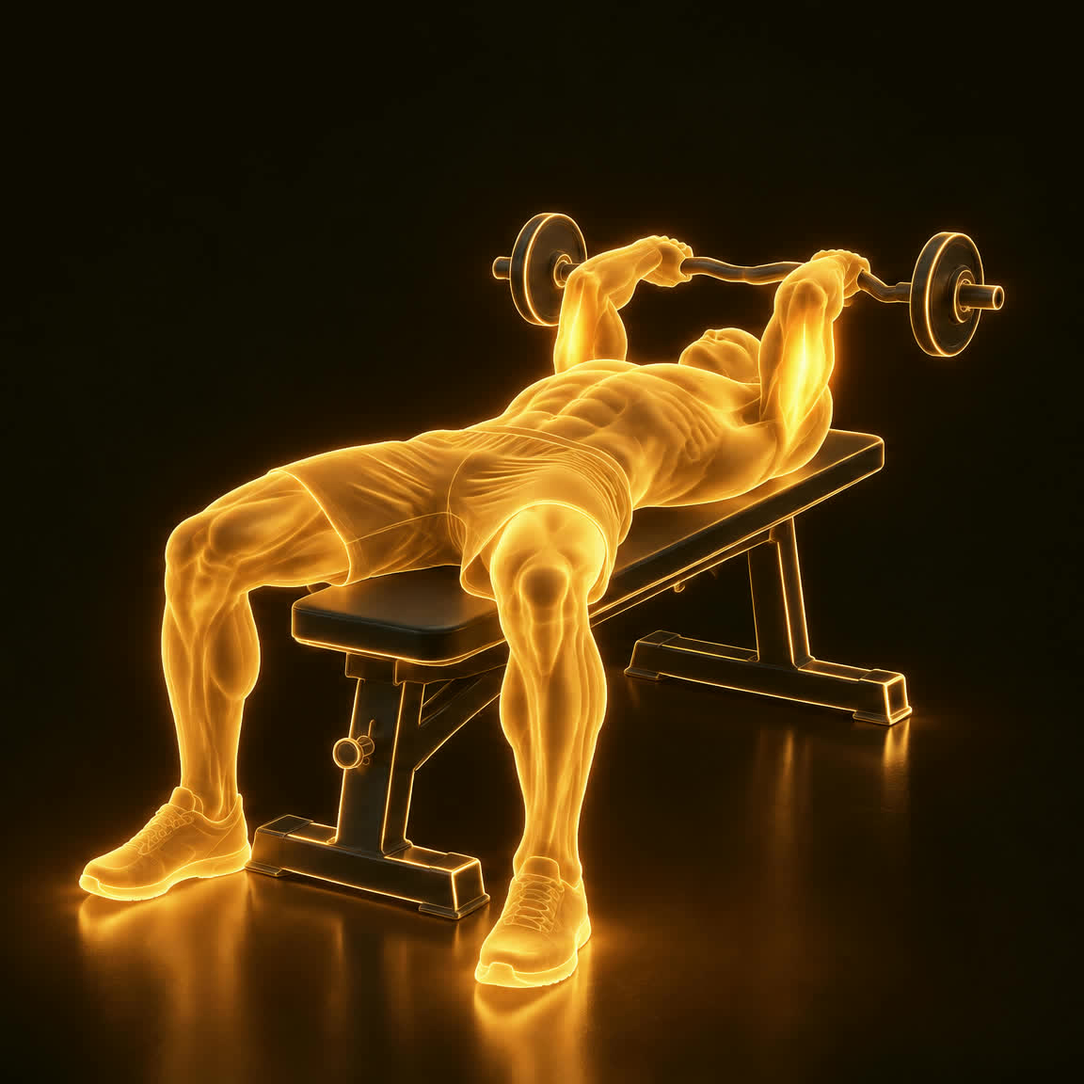
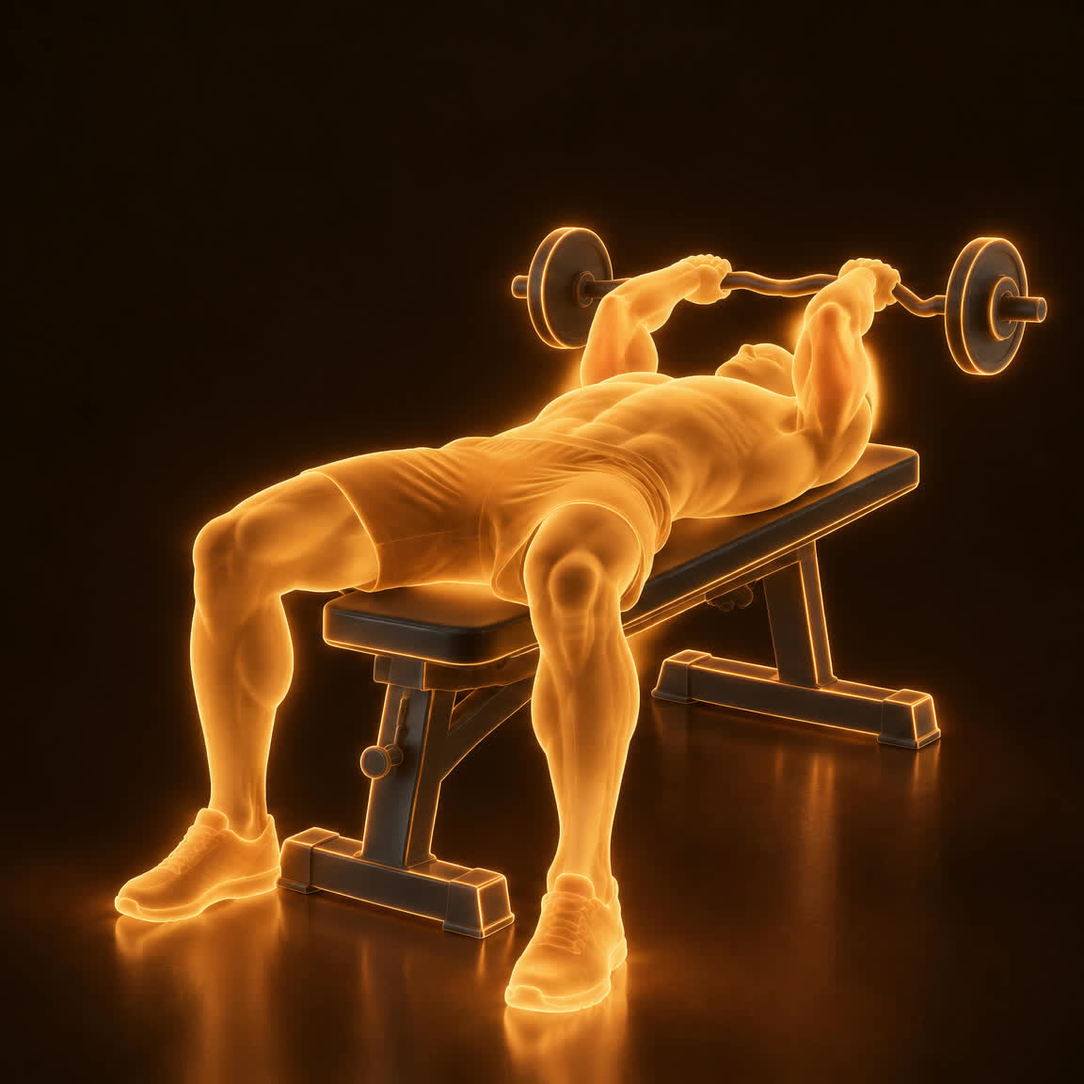
Unification round 1 v2: the soft body Asaf approved on x103, equipment dark graphite with a lit edge so the grip reads (his call). All 18 frames inside check 8 after a free hue/saturation pass. x245's glow still reaches the ribs. 9 credits.

diff --git a/exercise-sheets/unify.html b/exercise-sheets/unify.html
@@ -1,18 +1,17 @@
 <!doctype html><html lang="he" dir="rtl"><head><meta charset="utf-8"><meta name="viewport" content="width=device-width,initial-scale=1"><title>איחוד הדמות</title>
-<style>:root{--bg:#120d07;--fg:#f3e6cf;--mut:#b9a888;--line:#3a2f20}body{margin:0;padding:16px;background:var(--bg);color:var(--fg);font:15px/1.5 system-ui,sans-serif}
-h1{font-size:21px;margin:0 0 4px}p{color:var(--mut);margin:0 0 16px}h2{font-size:17px;margin:22px 0 8px;border-top:1px solid var(--line);padding-top:12px}h2 small{color:var(--mut);font-weight:400;font-size:13px}
-.row{display:grid;grid-template-columns:1fr 1fr .6fr;gap:8px;align-items:end}figure{margin:0}img{width:100%;display:block;border-radius:6px}figcaption{color:var(--mut);font-size:13px;margin-top:2px}.old img{opacity:.75}.row4{display:grid;grid-template-columns:repeat(4,1fr);gap:8px;align-items:end}@media(max-width:600px){.row4{grid-template-columns:1fr 1fr}}
-@media(max-width:600px){.row{grid-template-columns:1fr 1fr}.old{grid-column:1/3;width:50%}}</style></head><body>
-<h1>ניסיון מתוקן: x103</h1><p>אחרי ההערה שלך ("זרחני"): גוף רך ושקוף יותר, ענבר ולא צהוב, והספסל באותו חומר כמו הדמות. לידו הדמות של 3.11 והגרסה מהסבב הקודם.</p>
-<section><div class="row4"><figure><img src="unify/x103-v2/early.jpg"><figcaption>3.11 - הרפרנס</figcaption></figure><figure><img src="unify/x103-v2/start.jpg"><figcaption>חדש - התחלה</figcaption></figure><figure><img src="unify/x103-v2/end.jpg"><figcaption>חדש - סוף</figcaption></figure><figure class="old"><img src="unify/x103/start.jpg"><figcaption>סבב 1 (נדחה)</figcaption></figure></div></section>
-<h1 style="margin-top:32px">סבב איחוד 1 (נדחה: "זרחני")</h1><p>9 תרגילים, אותן תנוחות שכבר אישרת, בדמות של 3.11 עם זוהר עדין על השריר העובד. אישור הפריימים ← GIF.</p>
-<section><h2>לחיצת חזה על הרצפה <small>x10 · Floor Press</small></h2><div class="row"><figure><img src="unify/x10/start.jpg" loading="lazy"><figcaption>התחלה</figcaption></figure><figure><img src="unify/x10/end.jpg" loading="lazy"><figcaption>סוף</figcaption></figure><figure class="old"><img src="../exercise-sheets/x10-floor-press/try2/start.jpg" loading="lazy"><figcaption>הישן (נשאר באפליקציה עד שתאשר)</figcaption></figure></div></section>
-<section><h2>סקאל קראשר <small>x112 · Skull Crushers</small></h2><div class="row"><figure><img src="unify/x112/start.jpg" loading="lazy"><figcaption>התחלה</figcaption></figure><figure><img src="unify/x112/end.jpg" loading="lazy"><figcaption>סוף</figcaption></figure><figure class="old"><img src="../exercise-sheets/x112-skull-crushers/try2/start.jpg" loading="lazy"><figcaption>הישן (נשאר באפליקציה עד שתאשר)</figcaption></figure></div></section>
-<section><h2>לחיצת חזה במכונה <small>x7 · Chest Press Machine</small></h2><div class="row"><figure><img src="unify/x7/start.jpg" loading="lazy"><figcaption>התחלה</figcaption></figure><figure><img src="unify/x7/end.jpg" loading="lazy"><figcaption>סוף</figcaption></figure><figure class="old"><img src="../exercise-sheets/x7-machine-bench-press/try2/start.jpg" loading="lazy"><figcaption>הישן (נשאר באפליקציה עד שתאשר)</figcaption></figure></div></section>
-<section><h2>כפיפת מרפק בשיפוע <small>x103 · Incline Curl</small></h2><div class="row"><figure><img src="unify/x103/start.jpg" loading="lazy"><figcaption>התחלה</figcaption></figure><figure><img src="unify/x103/end.jpg" loading="lazy"><figcaption>סוף</figcaption></figure><figure class="old"><img src="../exercise-sheets/x103-incline-curl/try2/start.jpg" loading="lazy"><figcaption>הישן (נשאר באפליקציה עד שתאשר)</figcaption></figure></div></section>
-<section><h2>פשיטת שורש כף יד <small>x124 · Reverse Wrist Curl</small></h2><div class="row"><figure><img src="unify/x124/start.jpg" loading="lazy"><figcaption>התחלה</figcaption></figure><figure><img src="unify/x124/end.jpg" loading="lazy"><figcaption>סוף</figcaption></figure><figure class="old"><img src="../exercise-sheets/x124-reverse-wrist-curl/try2/start.jpg" loading="lazy"><figcaption>הישן (נשאר באפליקציה עד שתאשר)</figcaption></figure></div></section>
-<section><h2>שכיבות סמיכה בשיפוע <small>x19 · Incline Push Ups</small></h2><div class="row"><figure><img src="unify/x19/start.jpg" loading="lazy"><figcaption>התחלה</figcaption></figure><figure><img src="unify/x19/end.jpg" loading="lazy"><figcaption>סוף</figcaption></figure><figure class="old"><img src="../exercise-sheets/x19-incline-push-ups/start.jpg" loading="lazy"><figcaption>הישן (נשאר באפליקציה עד שתאשר)</figcaption></figure></div></section>
-<section><h2>פשיטת מרפק מעל הראש בפולי תחתון <small>x244 · Low Cable Overhead Tricep Extension</small></h2><div class="row"><figure><img src="unify/x244/start.jpg" loading="lazy"><figcaption>התחלה</figcaption></figure><figure><img src="unify/x244/end.jpg" loading="lazy"><figcaption>סוף</figcaption></figure><figure class="old"><img src="../exercise-sheets/x244-low-cable-overhead-extension/start.jpg" loading="lazy"><figcaption>הישן (נשאר באפליקציה עד שתאשר)</figcaption></figure></div></section>
-<section><h2>כפיפת מרפק בפולי על ספסל משופע <small>x245 · Incline Bench Cable Curl</small></h2><div class="row"><figure><img src="unify/x245/start.jpg" loading="lazy"><figcaption>התחלה</figcaption></figure><figure><img src="unify/x245/end.jpg" loading="lazy"><figcaption>סוף</figcaption></figure><figure class="old"><img src="../exercise-sheets/x245-incline-bench-cable-curl/start.jpg" loading="lazy"><figcaption>הישן (נשאר באפליקציה עד שתאשר)</figcaption></figure></div></section>
-<section><h2>סקוואט <small>x128 · Barbell Squat</small></h2><div class="row"><figure><img src="unify/x128/start.jpg" loading="lazy"><figcaption>התחלה</figcaption></figure><figure><img src="unify/x128/end.jpg" loading="lazy"><figcaption>סוף</figcaption></figure><figure class="old"><img src="../exercise-sheets/x128-barbell-squat/start.jpg" loading="lazy"><figcaption>הישן (נשאר באפליקציה עד שתאשר)</figcaption></figure></div></section>
+<style>:root{--bg:#120d07;--fg:#f3e6cf;--mut:#b9a888;--warn:#f0b35a;--line:#3a2f20}body{margin:0;padding:16px;background:var(--bg);color:var(--fg);font:15px/1.5 system-ui,sans-serif}
+h1{font-size:21px;margin:0 0 4px}p{color:var(--mut);margin:0 0 16px}p.warn{color:var(--warn);margin:0 0 8px}h2{font-size:17px;margin:22px 0 8px;border-top:1px solid var(--line);padding-top:12px}h2 small{color:var(--mut);font-weight:400;font-size:13px}
+.row{display:grid;grid-template-columns:1fr 1fr;gap:8px}figure{margin:0}img{width:100%;display:block;border-radius:6px}figcaption{color:var(--mut);font-size:13px;margin-top:2px}
+.ref{display:grid;grid-template-columns:1fr 1fr 1fr;gap:8px;max-width:600px;margin-bottom:8px}</style></head><body>
+<h1>סבב איחוד 1, גרסה 2</h1><p>הגוף של x103 שאישרת - רך, שקוף, ענבר. הציוד בצבע אחר - גרפיט כהה עם קו מואר, כדי שרואים איפה היד אוחזת. ההדגמה הישנה נשארת באפליקציה עד שתאשר.</p>
+<div class="ref"><figure><img src="character/EARLY-stand.jpg"><figcaption>3.11</figcaption></figure><figure><img src="character/EARLY-bench.jpg"><figcaption>3.11</figcaption></figure><figure><img src="character/EARLY-seated.jpg"><figcaption>3.11</figcaption></figure></div>
+<section><h2>לחיצת חזה על הרצפה <small>x10 · Floor Press</small></h2><div class="row"><figure><img src="unify/x10/start.jpg" loading="lazy"><figcaption>התחלה</figcaption></figure><figure><img src="unify/x10/end.jpg" loading="lazy"><figcaption>סוף</figcaption></figure></div></section>
+<section><h2>סקאל קראשר <small>x112 · Skull Crushers</small></h2><div class="row"><figure><img src="unify/x112/start.jpg" loading="lazy"><figcaption>התחלה</figcaption></figure><figure><img src="unify/x112/end.jpg" loading="lazy"><figcaption>סוף</figcaption></figure></div></section>
+<section><h2>לחיצת חזה במכונה <small>x7 · Chest Press Machine</small></h2><div class="row"><figure><img src="unify/x7/start.jpg" loading="lazy"><figcaption>התחלה</figcaption></figure><figure><img src="unify/x7/end.jpg" loading="lazy"><figcaption>סוף</figcaption></figure></div></section>
+<section><h2>כפיפת מרפק בשיפוע <small>x103 · Incline Curl</small></h2><div class="row"><figure><img src="unify/x103/start.jpg" loading="lazy"><figcaption>התחלה</figcaption></figure><figure><img src="unify/x103/end.jpg" loading="lazy"><figcaption>סוף</figcaption></figure></div></section>
+<section><h2>פשיטת שורש כף יד <small>x124 · Reverse Wrist Curl</small></h2><div class="row"><figure><img src="unify/x124/start.jpg" loading="lazy"><figcaption>התחלה</figcaption></figure><figure><img src="unify/x124/end.jpg" loading="lazy"><figcaption>סוף</figcaption></figure></div></section>
+<section><h2>שכיבות סמיכה בשיפוע <small>x19 · Incline Push Ups</small></h2><div class="row"><figure><img src="unify/x19/start.jpg" loading="lazy"><figcaption>התחלה</figcaption></figure><figure><img src="unify/x19/end.jpg" loading="lazy"><figcaption>סוף</figcaption></figure></div></section>
+<section><h2>פשיטת מרפק מעל הראש בפולי תחתון <small>x244 · Low Cable Overhead Tricep Extension</small></h2><div class="row"><figure><img src="unify/x244/start.jpg" loading="lazy"><figcaption>התחלה</figcaption></figure><figure><img src="unify/x244/end.jpg" loading="lazy"><figcaption>סוף</figcaption></figure></div></section>
+<section><h2>כפיפת מרפק בפולי על ספסל משופע <small>x245 · Incline Bench Cable Curl</small></h2><p class="warn">ידוע: הזוהר יושב גם על הצלעות ולא רק על הזרוע (פעם שנייה)</p><div class="row"><figure><img src="unify/x245/start.jpg" loading="lazy"><figcaption>התחלה</figcaption></figure><figure><img src="unify/x245/end.jpg" loading="lazy"><figcaption>סוף</figcaption></figure></div></section>
+<section><h2>סקוואט <small>x128 · Barbell Squat</small></h2><div class="row"><figure><img src="unify/x128/start.jpg" loading="lazy"><figcaption>התחלה</figcaption></figure><figure><img src="unify/x128/end.jpg" loading="lazy"><figcaption>סוף</figcaption></figure></div></section>
 </body></html>

diff --git a/.claude/skills/exercise-animation/SKILL.md b/.claude/skills/exercise-animation/SKILL.md
@@ -210,12 +210,12 @@ description: בניית אנימציה של תרגיל אחד למאגר (exerci
 | 5 | הציוד | מול שלו, **בכל פריים בנפרד**: גודל, מיקום **וכיוון**. **משקולת יד:** הידית ניצבת לאמה ומסתובבת איתה; כשהאמה אופקית המשקולת עומדת, כשהאמה אנכית היא שוכבת (x119 נדחה: המשקולת נשארה אופקית בסוף, מקבילה לאמה). **מכונה:** השלד שלה (עמודים, מושב, מסילה) בחפיפה, ורק החלק הנע זז (x9 נדחה: כל הסמית זזה). **כרית או ידית שהגוף דוחף:** נוגעת באותו מקום על האיבר בשני הפריימים, ונעה איתו (x170, x174 נדחו: הכריות לא נשארו על הברכיים). **כבל, ידית, חבל ומוט - האחיזה, בחיתוך מקרוב של כל יד בכל פריים:** האצבעות סגורות סביב הידית או המוט, והידית בכיוון שהתרגיל דורש (תחתונה, עליונה, ניטרלית). הכבל הוא קו ישר אחד מהגלגלת לידית, ולא עובר דרך יד, רגל או גו; מותחים בין שתי הנקודות קו (`skeleton.mjs`) ובודקים שלא חוצה איבר. לידית אחת יש כבל אחד. בהנחיה: "the cable runs in one straight line from the pulley to the handle and never passes through the body; the fingers close around the handle" (8.11: x111, x120, x98, x3, x5 נדחו על "המנחים של ההחזקה של הכבלים" - ב-x120 הכבל עבר דרך הרגל) | אותו גודל וגובה; מה שלא אמור לזוז זהה; כל אחיזה סגורה וכל כבל ישר ופנוי |
 | 6 | הזוהר | בעין | השריר הראשי הכי חזק |
 | 7 | הדמות | **ראשון: שלנו ליד פריים ה-EARLY התואם ולידו ההדגמה המקורית x96 או x1, באותו גובה דמות** (`ffmpeg hstack`). גוף, פרופורציות, חומר, צבע, ראש, מכנס וכפות רגליים - כל הבדל שרואים = נכשל. אחר כך חיתוך מקרוב, **זה לצד זה עם הראש ב-EARLY**: אותה צורת גולגולת, לסת ופרופיל. ראש שלא נראה כמו שלו נכשל, גם אם אין לו פנים ואוזניים (x119: ביצה מוארכת עברה את הבדיקה כי בדקתי רק "אין פנים"). **חיתוך מקרוב של הראש בשני הפריימים, ההתחלה וגם הסוף** - הסוף נוצר מחדש ויכול לקבל פנים, זקן או אוזן שלא היו בהתחלה (9.11: x113 - "מופיע לו זקן אחרי שהוא מסיים את התרגיל"). **רצה על פריים ההתחלה לפני שבונים עליו עריכה**, כי מה שבו עובר לכל מה שנבנה ממנו (x119: האוזן והפרופיל של הפנים עברו מההתחלה לסוף, וגילינו את זה רק אחרי קרדיט על הידיים). **עריכת תיקון מתקנת את כל מה שבדיקה 7 מצאה בבת אחת.** מריצים את כל הבדיקה לפני הקרדיט, לא רק על הפגם שדווח (x119: תיקנתי את הראש, ורק אחר כך ראיתי קווי שרירים ברגליים, שהיו שם כל הזמן) | הדמות היא הדמות של EARLY: גוף, ראש, מכנס, נעליים. **גפיים חלקות כמו שם:** קווי שרירים, פסים או חריצים על רגל או יד שלא עובדת = נכשל (x185) |
-| 8 | הגוון והשקיפות | `tone-check.mjs exercise-sheets/character/EARLY-stand.jpg <שלנו>`, ובעין: שלנו ליד EARLY באותו גודל | **גוון ההדגשות (hiHue) 35-38** (EARLY: 35.3-36.9; סבב איחוד 1 יצא 40-43, "זרחני"), **מרקם (rough) עד 9.1** (EARLY 7.7-8.3; קווי שרירים חדים ו-+1.5 עד +7.5 = אותו "זרחני"), גוון ממוצע בתוך 3.5°, **רוויה 0.70-0.80 (EARLY: 0.75-0.77; דף הדמות 0.84 היה זהוב מדי)**. הצבע והזוהר של EARLY הם הצבע - לא מורידים ולא מגבירים אותם (9.11: הורדה לרוויה 0.65 של הדמות הראשונה, "עכשיו הוא נראה דהוי"), בהירות (bright) בתוך 10. השריר העובד בולט כצורה בהירה בגוף כהה ממנו (8.11: x105 יצא bright +18, גוף אחיד). **ובעין, חומר אחד:** הראש, הגו, המכנס והרגליים באותה שקיפות ובהירות כמו ב-EARLY; מכנס כהה או אטום, או גו כהה באמצע = נכשל, גם כשהמספרים עוברים (x111, x120, x98: הממוצע עבר, הגוף "לא אחיד") |
+| 8 | הגוון והשקיפות | `tone-check.mjs exercise-sheets/character/EARLY-stand.jpg <שלנו>`, ובעין: שלנו ליד EARLY באותו גודל | **גוון ההדגשות (hiHue) 35-38** (EARLY: 35.3-36.9; סבב איחוד 1 יצא 40-43, "זרחני"), **מרקם (rough) עד 9.1** (EARLY 7.7-8.3; קווי שרירים חדים ו-+1.5 עד +7.5 = אותו "זרחני") - **בציוד קטן** (משקולות, מוט, קופסה: 7.0-8.0 בגרסה שאושרה). מכונה גדולה (מגדל כבלים, מתלה) מוסיפה קצוות מוארים ומעלה ל-10-13 גם בגוף רך; שם משווים את הגוף בחיתוך ליד x103 v2, בעין, גוון ממוצע בתוך 3.5°, **רוויה 0.70-0.80 (EARLY: 0.75-0.77; דף הדמות 0.84 היה זהוב מדי)**. הצבע והזוהר של EARLY הם הצבע - לא מורידים ולא מגבירים אותם (9.11: הורדה לרוויה 0.65 של הדמות הראשונה, "עכשיו הוא נראה דהוי"), בהירות (bright) בתוך 10. השריר העובד בולט כצורה בהירה בגוף כהה ממנו (8.11: x105 יצא bright +18, גוף אחיד). **ובעין, חומר אחד:** הראש, הגו, המכנס והרגליים באותה שקיפות ובהירות כמו ב-EARLY; מכנס כהה או אטום, או גו כהה באמצע = נכשל, גם כשהמספרים עוברים (x111, x120, x98: הממוצע עבר, הגוף "לא אחיד") |
 | 9 | מסגור | בעין | כל הדמות והציוד בפריים, עם שוליים |
 | 10 | האנימציה | ארבעה פריימים מהמעבר (ffmpeg `select='eq(n\,12)+eq(n\,20)+eq(n\,26)+eq(n\,32)'`), מול אמצע המעבר אצלו - **מסתכלים עליהם בכל תרגיל, בגודל מלא**. **ראש כפול, גו כפול או רגל שלישית = נכשל, גם אם "חלש"** (8.11: x151 ו-x167 נשלחו עם "faint ghost" ונדחו: "3 רגליים, עוד ראש, טווח לא נקי"). כשהגו או הרגליים עצמם זזים (הטיה, סווינג, סיבוב גו) - תמיד תנוחת אמצע ו-gif-seq. איבר שזז רחוק, ובמיוחד מעל הגוף או הפנים, נראה באמצע המעבר כשני איברים שקופים שמתערבבים. **התיקון:** תנוחת אמצע (עריכה מאותו פריים ההתחלה, לפי קווים בזווית האמצע), ו-`gif-seq.mjs` עם התחלה, אמצע וסוף (x250 נדחה: "הגפיים מתערבבות") | אין מה שמופיע רק אצלנו; רק האיבר שזז מופיע כפול - שום ראש, גו או רגל |
 | 11 | טווח התנועה | מודדים בפיקסלים כמה החלק הנע זז, אצלו ואצלנו, ביחס לאורך איבר קבוע (כף רגל, אמה) | לפחות 80% מהטווח שלו. תנועה קטנה (עקבים, שורש כף יד) נבדקת בחיתוך מקרוב (x180 נדחה: "אין בכלל ירידה") |
 
-- **בדיקה 8:** קובעים לפי הטווחים בטבלה, כולם. גוון ממוצע ורוויה לבד העבירו את סבב איחוד 1 כולו, והוא נדחה. **והציוד בחומר של EARLY:** ענבר שקוף עם קו מואר, לא שחור עם שוליים - בהנחיה: "the equipment is made of the same translucent glowing amber material as the figure in image 2".
+- **בדיקה 8:** קובעים לפי הטווחים בטבלה, כולם. גוון ממוצע ורוויה לבד העבירו את סבב איחוד 1 כולו, והוא נדחה. **והציוד בצבע אחר מהגוף** (אסף, 9.11: "שיהיה נבדל בצבע כדי שיוכלו להבדיל בינו לבין הגוף ולסוג האחיזה"): גרפיט כהה עם קו ענבר מואר, כך שרואים איפה היד אוחזת. הגוף עצמו - רך, שקוף, ענבר ולא צהוב, בלי קווי שרירים חדים - כמו x103 v2, שאושר.
 - **בדיקה 3:** יחסים בתוך איבר אחד לא תופסים רגל שהתקצרה כולה. ב-x247 ניסיון 2 זה עבר את הבדיקה וייצא גוף "לא הגיוני".
 
 **אם בדיקה נכשלה:**

diff --git a/exercise-sheets/UNIFY.md b/exercise-sheets/UNIFY.md
@@ -4,16 +4,16 @@
 
 | # | תרגיל | סטטוס |
 |---|---|---|
-| 1 | x10 לחיצת חזה על הרצפה | פריימים מחכים לאישור (סבב 1) |
-| 2 | x112 סקאל קראשר | פריימים מחכים לאישור (סבב 1) |
-| 3 | x7 לחיצת חזה במכונה | פריימים מחכים לאישור (סבב 1) |
-| 4 | x103 כפיפת מרפק בשיפוע | פריימים מחכים לאישור (סבב 1) |
-| 5 | x124 פשיטת שורש כף יד | פריימים מחכים לאישור (סבב 1) |
-| 6 | x19 שכיבות סמיכה בשיפוע | פריימים מחכים לאישור (סבב 1) |
-| 7 | x244 פשיטת מרפק מעל הראש בפולי תחתון | פריימים מחכים לאישור (סבב 1) |
-| 8 | x245 כפיפת מרפק בפולי על ספסל משופע | פריימים מחכים לאישור (סבב 1) |
-| 9 | x100 כפיפת מרפק בפולי | נכשל פעמיים: היד הפנויה מתכופפת גם - שיטה ג |
-| 10 | x128 סקוואט | פריימים מחכים לאישור (סבב 1) |
+| 1 | x10 לחיצת חזה על הרצפה | פריימים מחכים לאישור (סבב 1, גרסה 2) |
+| 2 | x112 סקאל קראשר | פריימים מחכים לאישור (סבב 1, גרסה 2) |
+| 3 | x7 לחיצת חזה במכונה | פריימים מחכים לאישור (סבב 1, גרסה 2) |
+| 4 | x103 כפיפת מרפק בשיפוע | פריימים מחכים לאישור (סבב 1, גרסה 2) |
+| 5 | x124 פשיטת שורש כף יד | פריימים מחכים לאישור (סבב 1, גרסה 2) |
+| 6 | x19 שכיבות סמיכה בשיפוע | פריימים מחכים לאישור (סבב 1, גרסה 2) |
+| 7 | x244 פשיטת מרפק מעל הראש בפולי תחתון | פריימים מחכים לאישור (סבב 1, גרסה 2) |
+| 8 | x245 כפיפת מרפק בפולי על ספסל משופע | פריימים מחכים לאישור (סבב 1, גרסה 2) |
+| 9 | x100 כפיפת מרפק בפולי | נכשל פעמיים: היד הפנויה מתכופפת גם - מחכה להחלטה |
+| 10 | x128 סקוואט | פריימים מחכים לאישור (סבב 1, גרסה 2) |
 | 11 | x145 עליות מדרגה | ממתין |
 | 12 | x246 כפיפת ברך בשכיבה עם משקולת | ממתין |
 | 13 | x219 קפיצה בחבל | ממתין |
